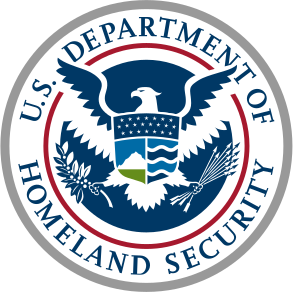
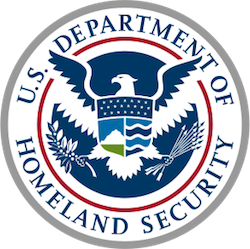
t pu

diff --git a/README.md b/README.md
@@ -2,4 +2,4 @@
 
 
 
-![](images/dhs.png | width=200)
+![Department of Homeland Security](images/dhs.png)
